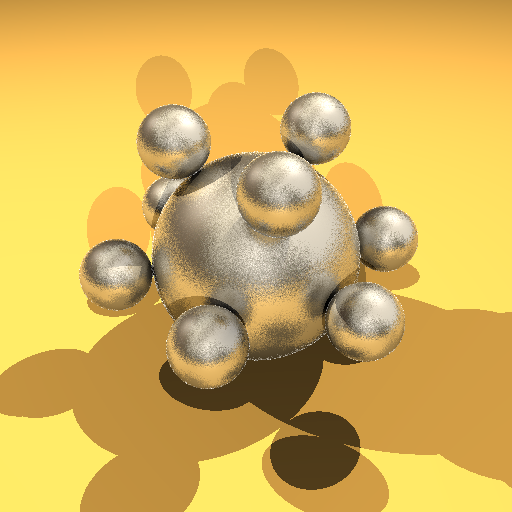
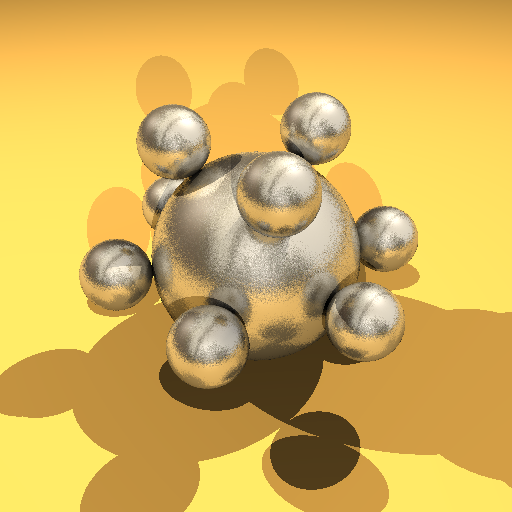
You would not believe your eyes...

Changed region(s): [[0.1562, 0.1875, 0.8125, 0.75]]

diff --git a/lab01/main.cpp b/lab01/main.cpp
@@ -508,14 +508,22 @@ Color getDiffuseNSpecular(Ray shadow_ray, Material* material, Vector hit_ray_dir
 	if (in_shadow)
 		return colour;
 
-	Color diffuse_colour = material->GetDiffColor() * material->GetDiffuse() * (light_dir * normal_vec);
+	float light_normal_dot_prod = light_dir * normal_vec;
+	
+	Color diffuse_colour;
+	if (light_normal_dot_prod > 0) {
+		diffuse_colour = material->GetDiffColor() * material->GetDiffuse() * light_normal_dot_prod;
+	}
 
 	// Halfway vector approximation
 	Vector halfway_vec = (light_dir + hit_ray_dir).normalize();
 
 	float halfway_product = halfway_vec * normal_vec;
 
-	Color specular_colour = material->GetSpecColor() * material->GetSpecular() * pow(halfway_product, material->GetShine());
+	Color specular_colour;
+	if (halfway_product > 0) {
+		specular_colour = material->GetSpecColor() * material->GetSpecular() * pow(halfway_product, material->GetShine());
+	}
 
 	colour += light_colour * (diffuse_colour + specular_colour);
 	return colour;
@@ -541,11 +549,10 @@ Color getReflection(Vector normal_vec, float cos_theta_i, Vector rev_ray_dir, Ve
 
 		for (int p = 0; p < sqrt_num_samples; p++) {
 			for (int q = 0; q < sqrt_num_samples; q++) {
-				//mod_refl_ray_dir = (refl_ray_dir + rand_in_unit_sphere() * roughness).normalize(); // our implementation of random
-				mod_refl_ray_dir = (refl_ray_dir + rnd_unit_sphere() * roughness).normalize();
+				mod_refl_ray_dir = (refl_ray_dir + rand_in_unit_sphere() * roughness).normalize(); // our implementation of random
+				//mod_refl_ray_dir = (refl_ray_dir + rnd_unit_sphere() * roughness).normalize();
 				
 				if (mod_refl_ray_dir * normal_vec < 0) {
-					colour += material->GetSpecColor();
 					continue;
 				}
 
@@ -634,7 +641,7 @@ Color rayTracing(Ray ray, int depth, float ior_i) // index of refraction of medi
 
 				float light_normal_dot_product = light_dir * normal_vec;
 
-				if (light_normal_dot_product < 0)
+				if (light_normal_dot_product <= 0)
 					continue;
 
 				Ray shadow_ray(refl_hit_point, light_dir);
@@ -675,7 +682,7 @@ Color rayTracing(Ray ray, int depth, float ior_i) // index of refraction of medi
 
 			float light_normal_dot_product = light_dir * normal_vec;
 
-			if (light_normal_dot_product < 0)
+			if (light_normal_dot_product <= 0)
 				continue;
 
 			Ray shadow_ray(refl_hit_point, light_dir);
@@ -803,8 +810,8 @@ void renderScene()
 				// Average each ray's colour
 				for (int p = 0; p < sqrt_spp_dof; p++) {
 					for (int q = 0; q < sqrt_spp_dof; q++) {
-						//lens_sample = rand_in_unit_circle() * aperture; //our implementation of random
-						lens_sample = rnd_unit_disk() * aperture;
+						lens_sample = rand_in_unit_circle() * aperture; //our implementation of random
+						//lens_sample = rnd_unit_disk() * aperture;
 						
 						if (sqrt_spp != 0) { // Anti-aliasing => Each pixel sample is different
 							pixel_sample.x = x + get_rand(p, p + 1) / sqrt_spp_dof;
